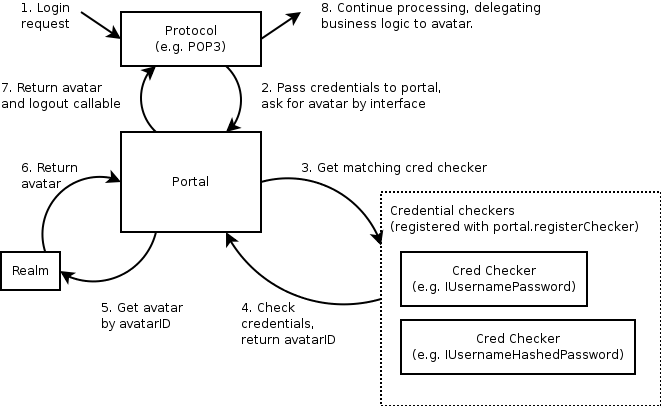
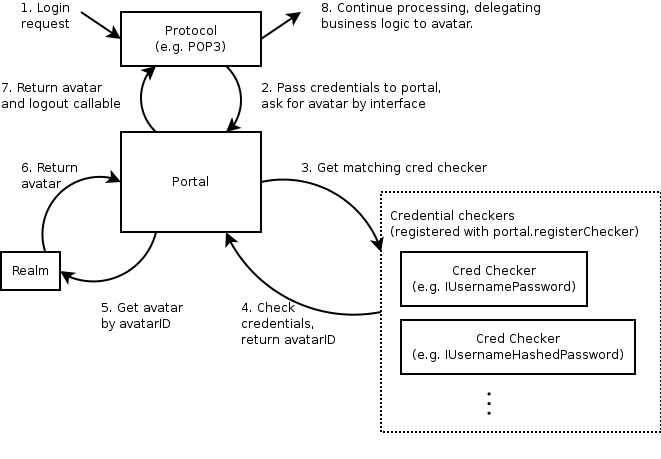
Add vertical ellipsis

diff --git a/twisted/python/util.py b/twisted/python/util.py
@@ -369,6 +369,7 @@ def makeStatBar(width, maxPosition, doneChar = '=', undoneChar = '-', currentCha
 def spewer(frame, s, ignored):
     """A trace function for sys.settrace that prints every function or method call."""
     from twisted.python import reflect
+    import sys
     if frame.f_locals.has_key('self'):
         se = frame.f_locals['self']
         if hasattr(se, '__class__'):
@@ -383,6 +384,7 @@ def spewer(frame, s, ignored):
             frame.f_code.co_name,
             frame.f_code.co_filename,
             frame.f_lineno)
+    sys.stdout.flush()
 
 def searchupwards(start, files=[], dirs=[]):
     """Walk upwards from start, looking for a directory containing

diff --git a/twisted/internet/tcp.py b/twisted/internet/tcp.py
@@ -818,7 +818,12 @@ class Port(base.BasePort):
 
         This indicates the server's address.
         """
-        return address.IPv4Address('TCP', *(self.socket.getsockname() + ('INET',)))
+        socket = getattr(self, 'socket', None)
+        if socket is not None:
+            sockname = socket.getsockname()
+        else:
+            sockname = ('no socket',)
+        return address.IPv4Address('TCP', *(sockname + ('INET',)))
 
 
 class Connector(base.BaseConnector):
